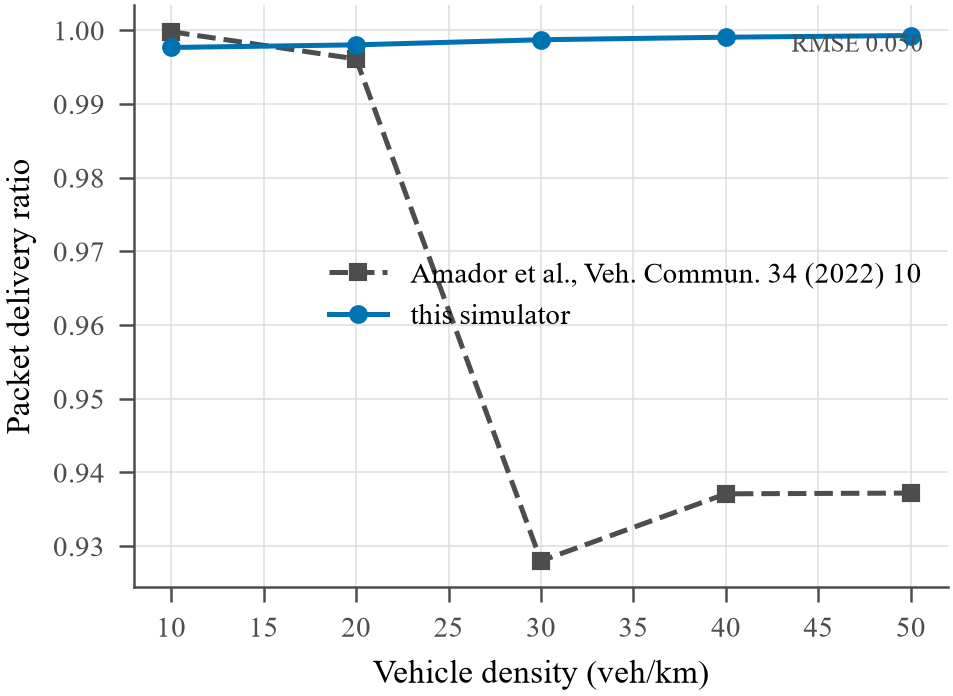
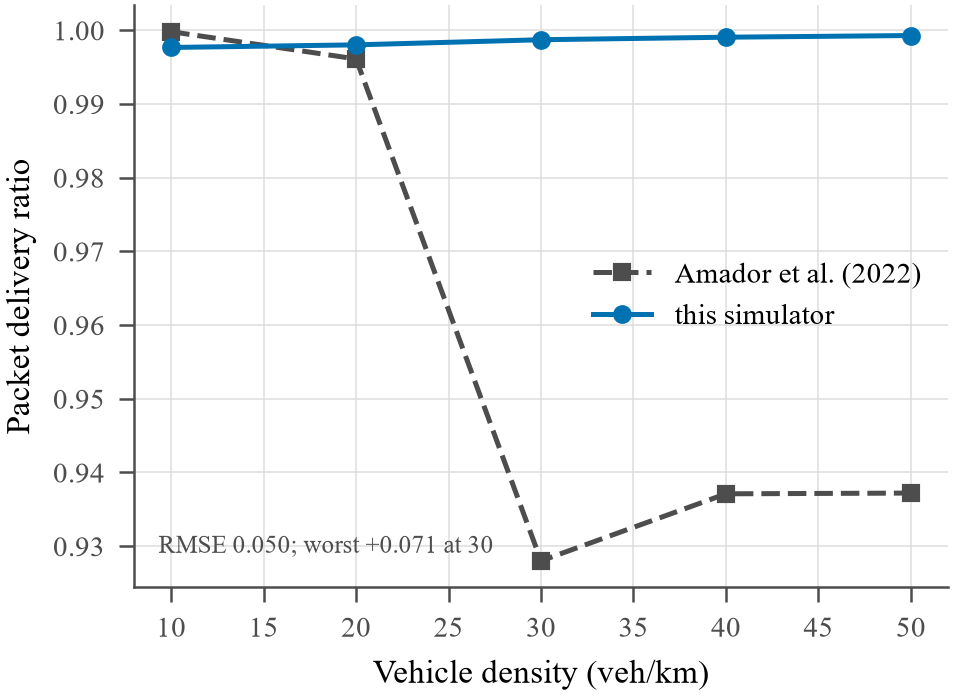
Figure 10 states where the simulator is wrong, not just how wrong on average
The validation figure matched in level and was being described as reproducing
the published curve to a mean absolute deviation of 0.0398. Looking at it, the
shape does not match at all:

  density   10      20      30      40      50   veh/km
  paper   0.9998  0.9961  0.9280  0.9371  0.9372
  ours    0.9977  0.9980  0.9987  0.9990  0.9993
  diff    -0.002  +0.002  +0.071  +0.062  +0.062

The published curve falls seven points by 30 veh/km; ours stays flat near
0.999. The deviation is one-sided and grows with density, so the averaged
figure flattered it: this simulator is OPTIMISTIC in dense traffic, which is
a limitation the paper has to carry rather than a number to average away.

The annotation now gives the worst signed residual and where it occurs, not
only the RMSE -- a curve matching in level but not in shape has a small RMSE
and a large one-sided worst case, and it is the worst case that tells a reader
where to distrust the simulator. The README row says it too.

Also: the legend cited "Amador et al., Veh. Commun. 34 (2022) 10", truncated
mid-volume at 40 characters. Short citation now.

diff --git a/analysis/report.py b/analysis/report.py
@@ -462,9 +462,13 @@ def build_all(skip_agent: bool = False) -> dict[str, list[str]]:
         xs = [float(k) for k in keys]
         ours = [float(per_density[k]["pdr_mean"]) for k in keys]
         published = [float(per_density[k]["paper"]) for k in keys]
+        # Short citation: the full reference truncated mid-volume in the legend.
+        reference = str(validation.get("reference", "published"))
+        source = reference.split(",")[0].strip() or "published"
+        if "2022" in reference and "(" not in source:
+            source += " (2022)"
         F.fig_validation(xs, ours, published, xlabel="Vehicle density (veh/km)",
-                         ylabel="Packet delivery ratio",
-                         source=str(validation.get("reference", "published"))[:40])
+                         ylabel="Packet delivery ratio", source=source)
         made["figures"].append("fig10_validation")
     else:
         made["skipped"].append("fig10 validation: no results/validation/amador2022.json")

diff --git a/analysis/figures.py b/analysis/figures.py
@@ -774,8 +774,14 @@ def fig_validation(
 
     resid = np.asarray(ours, dtype=float) - np.asarray(published, dtype=float)
     rmse = float(np.sqrt(np.nanmean(resid ** 2)))
-    ax.annotate(f"RMSE {rmse:.3f}", xy=(0.97, 0.95), xycoords="axes fraction",
-                ha="right", va="top", fontsize=6, color=GREY)
+    worst = int(np.nanargmax(np.abs(resid)))
+    # The largest signed residual, not just the RMSE: a curve that matches in
+    # level but not in shape has a small RMSE and a large, one-sided worst
+    # case, and it is the worst case that tells the reader where to distrust
+    # this simulator.
+    ax.annotate(f"RMSE {rmse:.3f}; worst {resid[worst]:+.3f} at {x[worst]:g}",
+                xy=(0.03, 0.05), xycoords="axes fraction",
+                ha="left", va="bottom", fontsize=6, color=GREY)
     ax.set_xlabel(xlabel)
     ax.set_ylabel(ylabel)
     ax.legend(loc="best")

diff --git a/README.md b/README.md
@@ -1025,7 +1025,7 @@ yet earned, the row says so rather than being omitted.
 | Attention is not sharply selecting a relay: the top-ranked neighbour takes 0.172 of a decision's attention mass where uniform over 12 neighbours is 0.083 | `fig07`, `results/attention_event.json` |
 | The GATv2 architecture is not what earns the result — GCN and MLP encoders match or beat it | `fig08`, `results/tables/table_ablation.tex`, `results/agent_<variant>/` |
 | Flooding is dominated, not a latency/overhead trade: it is dearest in 15 of 24 cells but fastest in only 3 (the fastest is usually `p_persistence_03`, 9 of 24, or the agent, 8 of 24) | `fig09`, `results/runs.csv` |
-| The simulator reproduces a published curve to a mean absolute PDR deviation of 0.0398 | `fig10`, `results/validation/amador2022.json`, `experiments/validate_amador.py` |
+| The simulator matches a published PDR curve in **level but not in shape**: mean absolute deviation 0.0398, but the deviation is one-sided and grows with density — −0.002 at 10 veh/km and +0.002 at 20, against +0.071 at 30, +0.062 at 40 and +0.062 at 50. The published curve falls to 0.928 at 30 veh/km; ours stays near 0.999. **This simulator is optimistic in dense traffic** and the paper must say so | `fig10`, `results/validation/amador2022.json`, `experiments/validate_amador.py` |
 | Per-cell comparisons, not pooled ones, are what 10 paired seeds can support | `analysis/grid_stats.py` (a family of 26 tests is unrejectable at 10 seeds: 0.00195 × 26 > 0.05) |
 | **Pending** — the no-relevance and long-wait ablations, which test the paper's premises directly | training in progress; `checkpoints/campaign/{no_relevance,long_wait}/` |
 | **Pending** — sparse cells re-run on the SUMO backend, against the fallback-backend sparse cells | sweep in progress; `results/runs_sparse_sumo.csv` |
